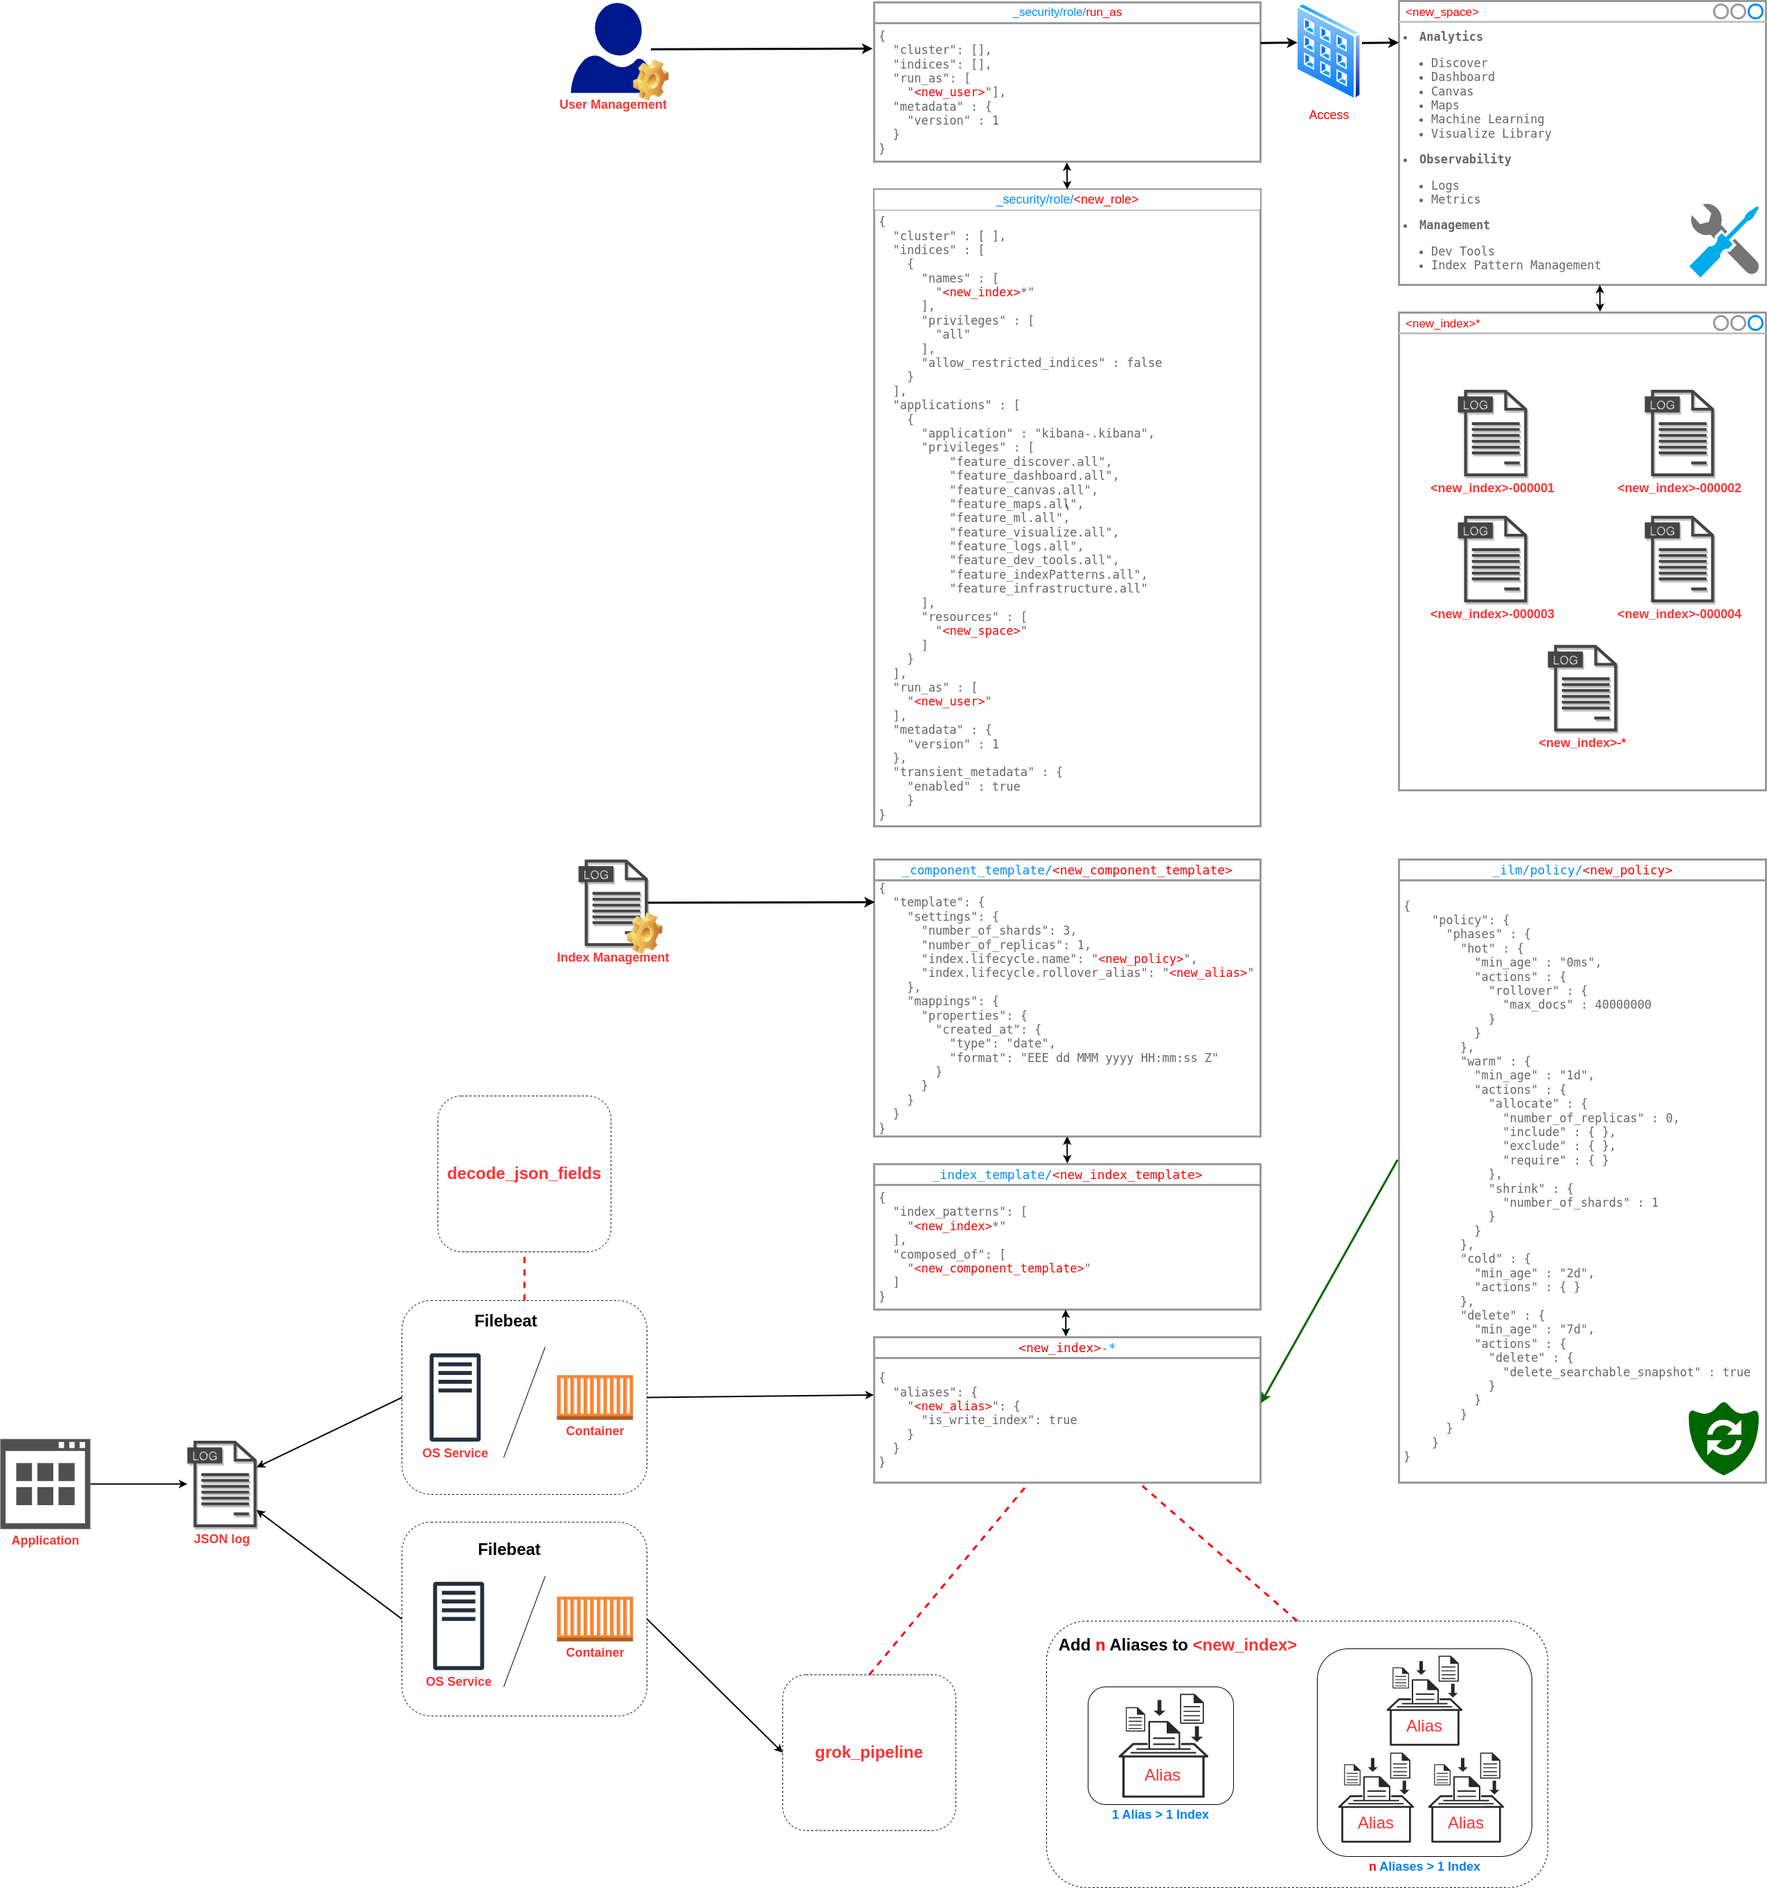
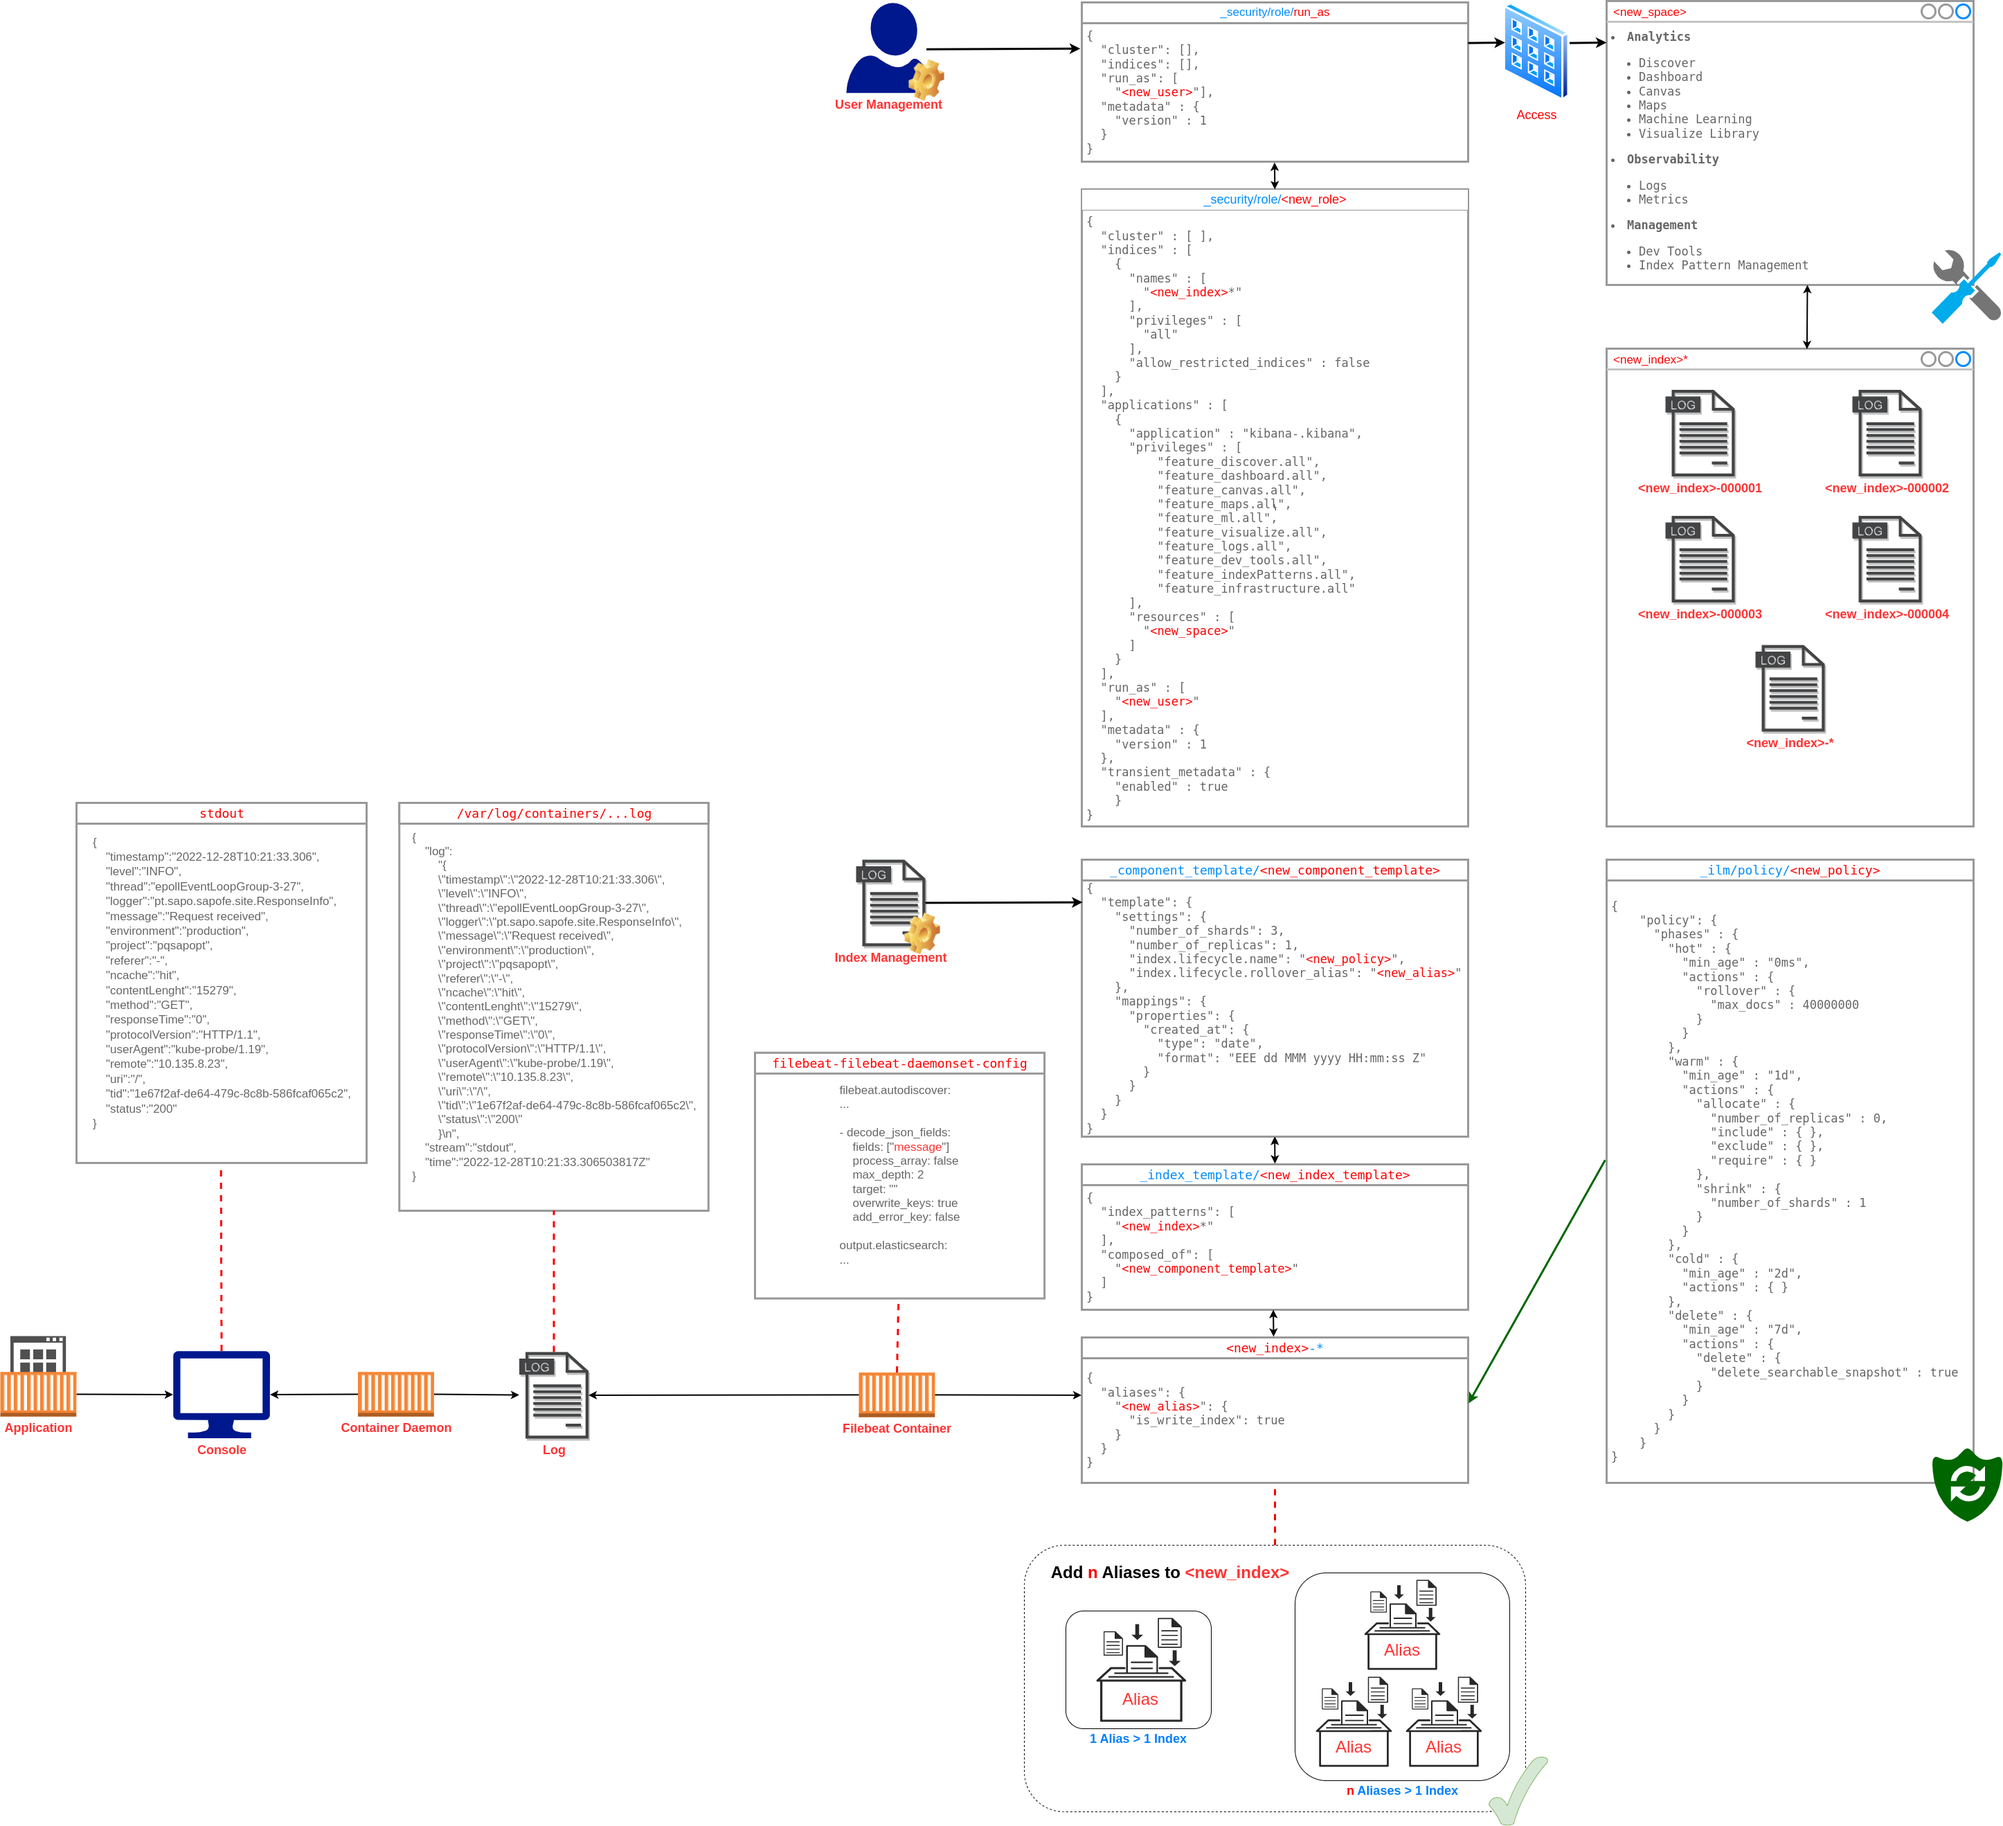
Atualizacao

diff --git a/elastic/elastic.md b/elastic/elastic.md
@@ -130,6 +130,7 @@ $ /usr/share/elasticsearch/bin/elasticsearch-create-enrollment-token --scope kib
     - Metrics
   - **Management**
     - Index Pattern Management
+    - Saved Objects Management
 
 ## User ▶ `Dev Tools`<br>
 
@@ -196,7 +197,8 @@ PUT _security/role/<new_role>
           "feature_visualize.all",
           "feature_logs.all",
           "feature_indexPatterns.all",
-          "feature_infrastructure.all"
+          "feature_infrastructure.all",
+          "feature_savedObjectsManagement.all"
       ],
       "resources" : [
         "space:<new_space>"
@@ -355,6 +357,35 @@ PUT _ingest/pipeline/example-pipeline
 }
 ```
 
+## Snapshot<br>
+```json
+PUT _snapshot/my_fs_backup
+{
+  "type": "fs",
+  "settings": {
+    "location": "/mnt"
+  }
+}
+
+PUT _slm/policy/elastic-snapshots
+{
+  "schedule": "0 /30 * * * ?",       
+  "name": "<snapshot-{now/d}>", 
+  "repository": "my_fs_backup",
+  "config": {
+    "indices": "*",                 
+    "include_global_state": true    
+  },
+  "retention": {                    
+    "expire_after": "1d",
+    "min_count": 2,
+    "max_count": 3
+  }
+}
+
+POST _slm/policy/elastic-snapshots/_execute
+```
+
 ## SEND LOGS
 
 ```bash
@@ -499,6 +530,11 @@ https://www.alibabacloud.com/blog/597074<br>
 https://www.elastic.co/guide/en/elasticsearch/reference/master/high-cpu-usage.html<br>
 <br />
 
-**grok**
+**grok**<br>
 https://alexmarquardt.com/using-grok-with-elasticsearch-to-add-structure-to-your-data/<br>
 https://logz.io/blog/grok-pattern-examples-for-log-parsing/<br>
+<br />
+
+**snapshot**<br>
+https://www.elastic.co/guide/en/elasticsearch/reference/7.17/snapshots-register-repository.html#snapshots-filesystem-repository<br>
+https://www.elastic.co/guide/en/elasticsearch/reference/7.17/snapshots-take-snapshot.html<br>
